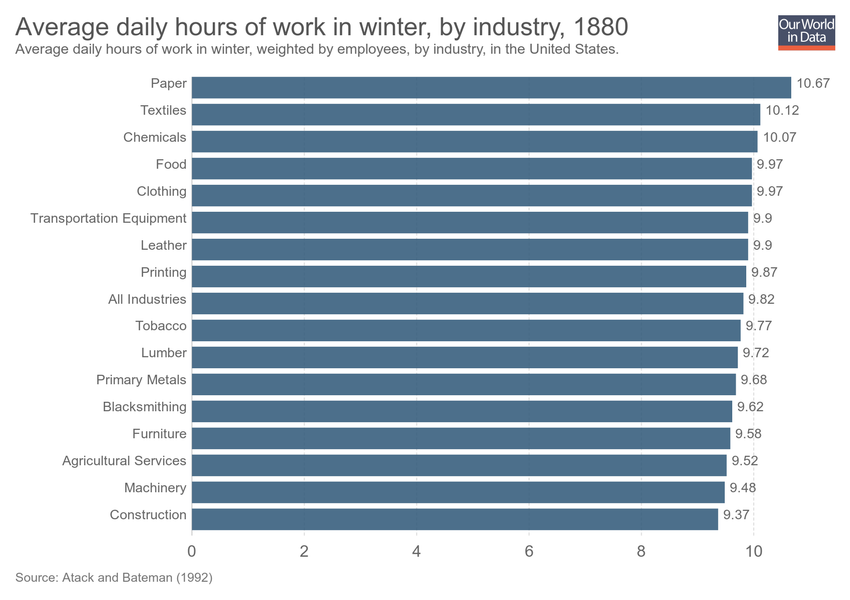
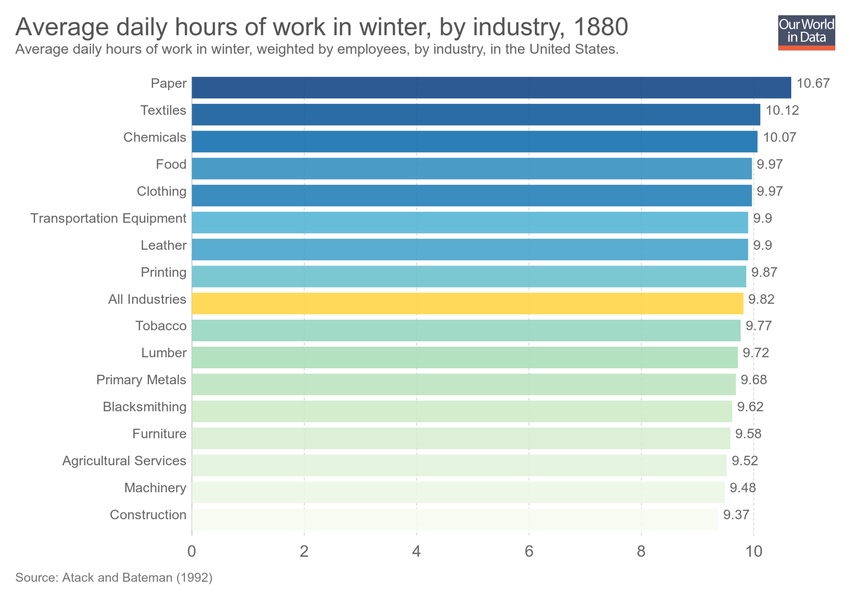
Updating chart average-daily-hours-of-work-in-winter-by-industry

diff --git a/grapher/average-daily-hours-of-work-in-winter-by-industry.html b/grapher/average-daily-hours-of-work-in-winter-by-industry.html
@@ -1,4 +1,4 @@
-<!doctype html><html><head><meta name="viewport" content="width=device-width, initial-scale=1" /><title>Average daily hours of work in winter, by industry - Our World in Data</title><meta name="description" content="Average daily hours of work in winter, weighted by employees, by industry, in the United States." /><link rel="canonical" href="https://ourworldindata.org/grapher/average-daily-hours-of-work-in-winter-by-industry" /><meta property="fb:app_id" content="1149943818390250" /><meta property="og:url" content="https://ourworldindata.org/grapher/average-daily-hours-of-work-in-winter-by-industry" /><meta property="og:title" content="Average daily hours of work in winter, by industry" /><meta property="og:description" content="Average daily hours of work in winter, weighted by employees, by industry, in the United States." /><meta property="og:image" content="https://ourworldindata.org/grapher/exports/average-daily-hours-of-work-in-winter-by-industry.png?v=4" /><meta property="og:image:width" content="850" /><meta property="og:image:height" content="600" /><meta property="og:site_name" content="Our World in Data" /><meta name="twitter:card" content="summary_large_image" /><meta name="twitter:site" content="@OurWorldInData" /><meta name="twitter:creator" content="@OurWorldInData" /><meta name="twitter:title" content="Average daily hours of work in winter, by industry" /><meta name="twitter:description" content="Average daily hours of work in winter, weighted by employees, by industry, in the United States." /><meta name="twitter:image" content="https://ourworldindata.org/grapher/exports/average-daily-hours-of-work-in-winter-by-industry.png?v=4" /><style>
+<!doctype html><html><head><meta name="viewport" content="width=device-width, initial-scale=1" /><title>Average daily hours of work in winter, by industry - Our World in Data</title><meta name="description" content="Average daily hours of work in winter, weighted by employees, by industry, in the United States." /><link rel="canonical" href="https://ourworldindata.org/grapher/average-daily-hours-of-work-in-winter-by-industry" /><meta property="fb:app_id" content="1149943818390250" /><meta property="og:url" content="https://ourworldindata.org/grapher/average-daily-hours-of-work-in-winter-by-industry" /><meta property="og:title" content="Average daily hours of work in winter, by industry" /><meta property="og:description" content="Average daily hours of work in winter, weighted by employees, by industry, in the United States." /><meta property="og:image" content="https://ourworldindata.org/grapher/exports/average-daily-hours-of-work-in-winter-by-industry.png?v=5" /><meta property="og:image:width" content="850" /><meta property="og:image:height" content="600" /><meta property="og:site_name" content="Our World in Data" /><meta name="twitter:card" content="summary_large_image" /><meta name="twitter:site" content="@OurWorldInData" /><meta name="twitter:creator" content="@OurWorldInData" /><meta name="twitter:title" content="Average daily hours of work in winter, by industry" /><meta name="twitter:description" content="Average daily hours of work in winter, weighted by employees, by industry, in the United States." /><meta name="twitter:image" content="https://ourworldindata.org/grapher/exports/average-daily-hours-of-work-in-winter-by-industry.png?v=5" /><style>
         html, body {
             height: 100%;
             margin: 0;
@@ -20,8 +20,8 @@
         }
     </style><noscript><style>
                     figure { display: none !important; }
-                </style></noscript><link rel="stylesheet" href="https://ourworldindata.org/grapher/assets/commons.bundle.b9f051796dbbbb7e5139.css" /><link rel="preload" href="/grapher/data/variables/97806.json?v=4" as="fetch" crossorigin /></head><body class="singleChart"><figure data-grapher-src="/grapher/average-daily-hours-of-work-in-winter-by-industry"></figure><noscript id="fallback"><img src="/grapher/exports/average-daily-hours-of-work-in-winter-by-industry.svg" /><p>Interactive visualization requires JavaScript</p></noscript><script src="https://cdn.polyfill.io/v2/polyfill.min.js?features=es6,fetch"></script><script src="https://ourworldindata.org/grapher/assets/commons.bundle.b9f051796dbbbb7e5139.js"></script><script src="https://ourworldindata.org/grapher/assets/charts.bundle.b9f051796dbbbb7e5139.js"></script><script>
-        var jsonConfig = {"id":2954,"map":{"projection":"World","colorSchemeLabels":[],"colorSchemeValues":[],"customNumericColors":[],"customCategoryColors":{},"customCategoryLabels":{},"customHiddenCategories":{}},"tab":"chart","slug":"average-daily-hours-of-work-in-winter-by-industry","type":"DiscreteBar","title":"Average daily hours of work in winter, by industry","xAxis":{"scaleType":"linear"},"yAxis":{"min":0,"scaleType":"linear"},"version":4,"subtitle":"Average daily hours of work in winter, weighted by employees, by industry, in the United States.","hasMapTab":false,"stackMode":"absolute","dimensions":[{"display":{"shortUnit":"","conversionFactor":0.0166666667},"property":"y","variableId":97806}],"entityType":"industry","hasChartTab":true,"isPublished":true,"selectedData":[{"index":0,"entityId":37231},{"index":0,"entityId":37878},{"index":0,"entityId":37885},{"index":0,"entityId":37875},{"index":0,"entityId":29025},{"index":0,"entityId":37886},{"index":0,"entityId":37887},{"index":0,"entityId":37888},{"index":0,"entityId":29015},{"index":0,"entityId":37881},{"index":0,"entityId":37244},{"index":0,"entityId":37236},{"index":0,"entityId":37232},{"index":0,"entityId":37883},{"index":0,"entityId":18949},{"index":0,"entityId":37876},{"index":0,"entityId":37877}],"addCountryMode":"add-country"};
+                </style></noscript><link rel="stylesheet" href="https://ourworldindata.org/grapher/assets/commons.bundle.b9f051796dbbbb7e5139.css" /><link rel="preload" href="/grapher/data/variables/97806.json?v=5" as="fetch" crossorigin /></head><body class="singleChart"><figure data-grapher-src="/grapher/average-daily-hours-of-work-in-winter-by-industry"></figure><noscript id="fallback"><img src="/grapher/exports/average-daily-hours-of-work-in-winter-by-industry.svg" /><p>Interactive visualization requires JavaScript</p></noscript><script src="https://cdn.polyfill.io/v2/polyfill.min.js?features=es6,fetch"></script><script src="https://ourworldindata.org/grapher/assets/commons.bundle.b9f051796dbbbb7e5139.js"></script><script src="https://ourworldindata.org/grapher/assets/charts.bundle.b9f051796dbbbb7e5139.js"></script><script>
+        var jsonConfig = {"id":2954,"map":{"projection":"World","colorSchemeLabels":[],"colorSchemeValues":[],"customNumericColors":[],"customCategoryColors":{},"customCategoryLabels":{},"customHiddenCategories":{}},"tab":"chart","slug":"average-daily-hours-of-work-in-winter-by-industry","type":"DiscreteBar","title":"Average daily hours of work in winter, by industry","xAxis":{"scaleType":"linear"},"yAxis":{"min":0,"scaleType":"linear"},"version":5,"subtitle":"Average daily hours of work in winter, weighted by employees, by industry, in the United States.","hasMapTab":false,"stackMode":"absolute","dimensions":[{"display":{"shortUnit":"","conversionFactor":0.0166666667},"property":"y","variableId":97806}],"entityType":"industry","hasChartTab":true,"isPublished":true,"selectedData":[{"index":0,"entityId":37231},{"index":0,"entityId":37878},{"index":0,"entityId":37885},{"index":0,"entityId":37875},{"index":0,"entityId":29025},{"index":0,"entityId":37886},{"index":0,"entityId":37887},{"index":0,"entityId":37888},{"index":0,"entityId":29015},{"index":0,"entityId":37881},{"index":0,"entityId":37244},{"index":0,"entityId":37236},{"index":0,"entityId":37232},{"index":0,"entityId":37883},{"index":0,"entityId":18949},{"color":"#ffd53e","index":0,"entityId":37876},{"index":0,"entityId":37877}],"addCountryMode":"add-country","baseColorScheme":"GnBu"};
         var figure = document.getElementsByTagName("figure")[0];
         try {
             window.App = {};
